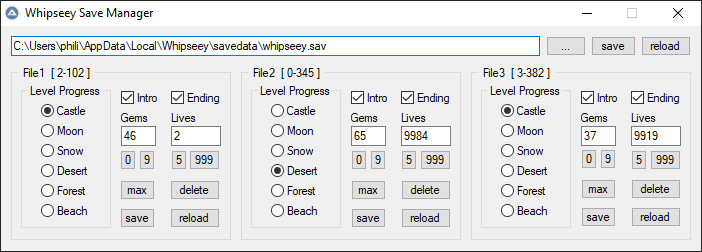
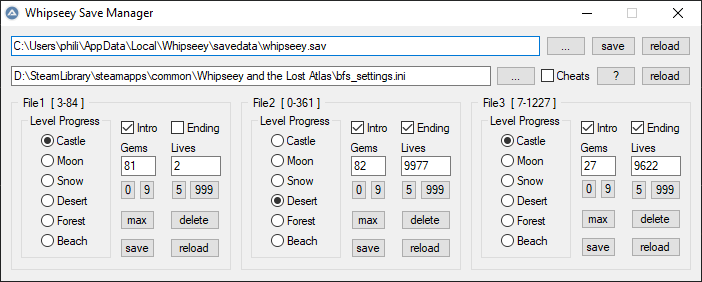
v0.6

diff --git a/README.MD b/README.MD
@@ -10,16 +10,17 @@ Game needs to be restarted to load a modified Savegame. Autosaving ingame will o
 
 ## Features
 
-- Auto-load Savegame
+- Auto-load Savegame & Cheat-settings
 - Set Level Progress
-- Set Lives
-- Set Gems
+- Set Lives & Gems
 - Skip Intro (Ending can't it seems)
-- Save/Reload(Undo) individual Saveslots
+- Save/Reload individual Saveslots
+- Toggle Cheats
 
 ## Warnings
 
-- Does not currently include Error Handling
-- Assumes Savegame is available / a valid one is opened
+- Does not currently include full Error Handling
+- Generally assumes data is available / a valid one is opened
 - Code is a bit messy
+- Written in AutoIT, so some Antivirus tools may complain
 - no dark mode
